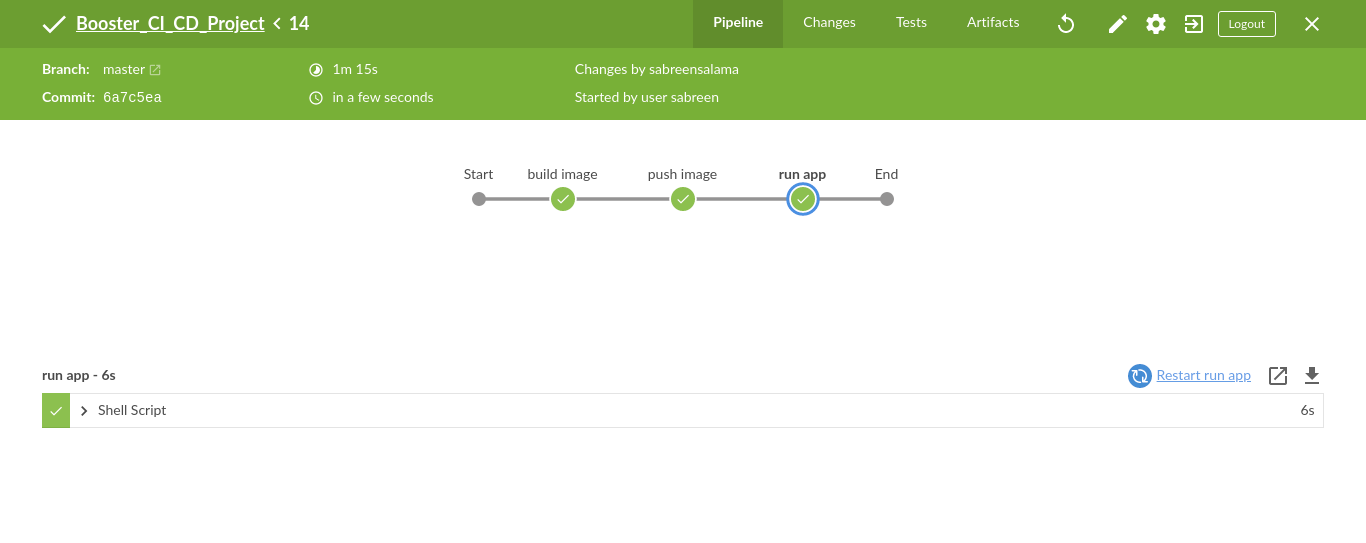
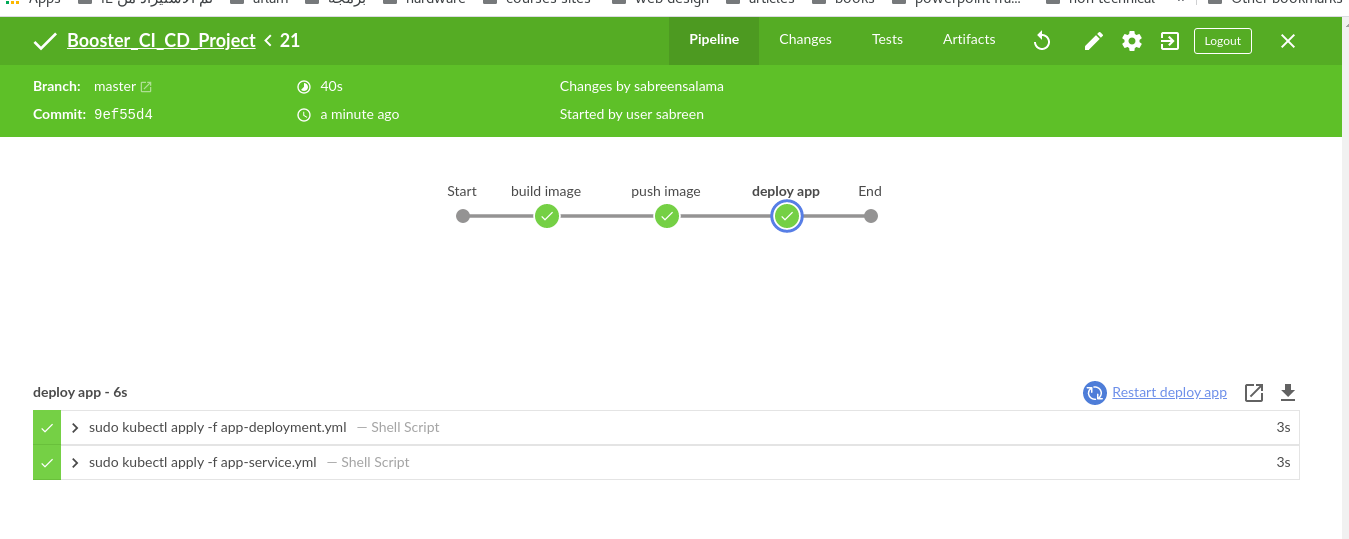
update images

diff --git a/README.md b/README.md
@@ -63,4 +63,6 @@ Create CI/CD pipeline using jenkinsfile to deploy simple django web app as a mic
  ![pipline](https://github.com/sabreensalama/Booster_CI_CD_Project/blob/master/Screenshots/pipline.png)
  ![my django app](https://github.com/sabreensalama/Booster_CI_CD_Project/blob/master/Screenshots/app.png)
 
+ ![rolling update history](https://github.com/sabreensalama/Booster_CI_CD_Project/blob/master/Screenshots/app-deployment.png)
+
 
